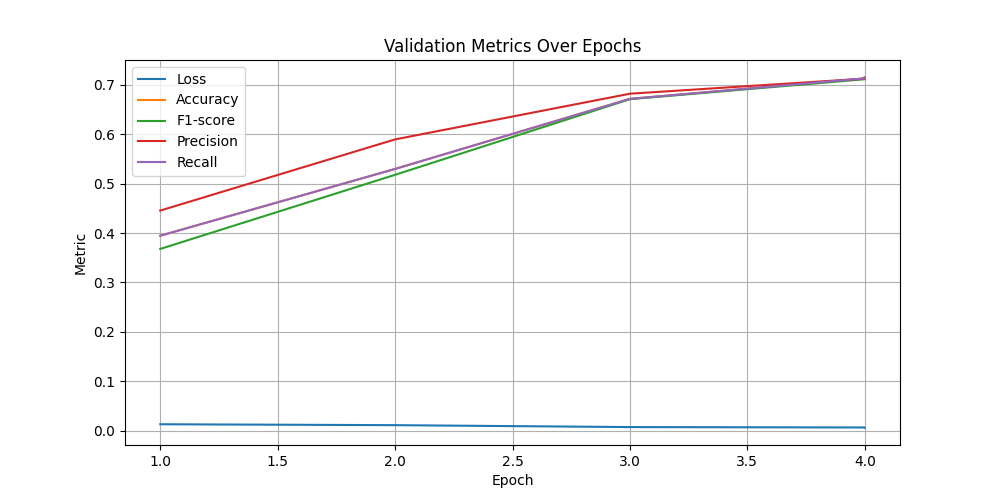
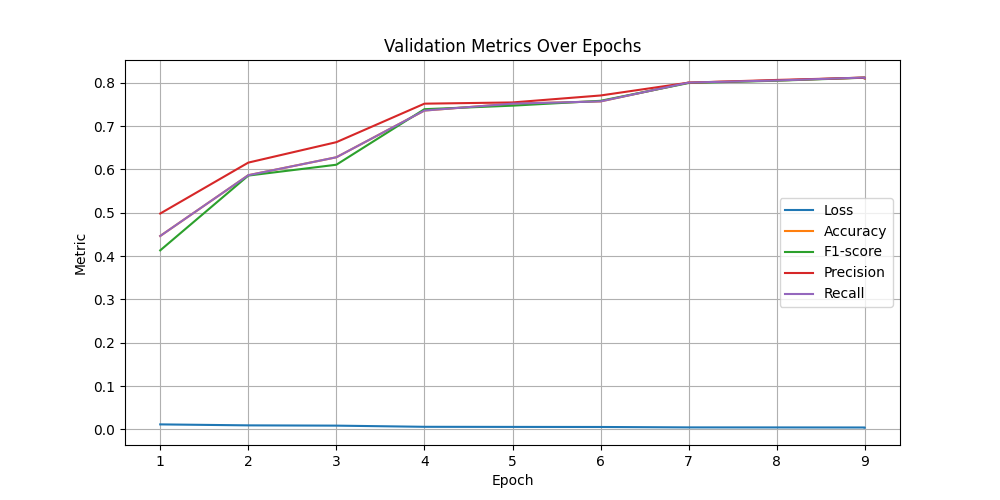
Implemented Wide-ResNet

diff --git a/model/Net.py b/model/Net.py
@@ -86,7 +86,6 @@ class ResNet_cifar(nn.Module):
         out = self.linear(out)
         return out
 
-
 # CIFAR-style ResNet configurations
 def ResNet20(num_classes=10):
     depth = 20
@@ -112,3 +111,51 @@ def ResNet110(num_classes=10):
     depth = 110
     n = (depth - 2) // 6
     return ResNet_cifar(BasicBlock, [n, n, n], num_classes=num_classes)
+
+
+
+class WResNet_cifar(nn.Module):
+    def __init__(self, block, num_blocks, k, num_classes=10):
+        super(WResNet_cifar, self).__init__()
+        self.in_planes = 16 * k
+
+        self.conv1 = nn.Conv2d(3, 16 * k, kernel_size=3, stride=1, padding=1, bias=False)
+        self.bn1 = nn.BatchNorm2d(16 * k)
+        self.layer1 = self._make_layer(block, 16 * k, num_blocks[0], stride=1)
+        self.layer2 = self._make_layer(block, 32 * k, num_blocks[1], stride=2)
+        self.layer3 = self._make_layer(block, 64 * k, num_blocks[2], stride=2)
+        self.linear = nn.Linear(64 * k * block.expansion, num_classes)
+
+    def _make_layer(self, block, planes, num_blocks, stride):
+        strides = [stride] + [1] * (num_blocks - 1)
+        layers = []
+        for stride in strides:
+            layers.append(block(self.in_planes, planes, stride))
+            self.in_planes = planes * block.expansion
+        return nn.Sequential(*layers)
+
+    def forward(self, x):
+        out = F.relu(self.bn1(self.conv1(x)))
+        out = self.layer1(out)
+        out = self.layer2(out)
+        out = self.layer3(out)
+        out = F.avg_pool2d(out, 8)
+        out = out.view(out.size(0), -1)
+        out = self.linear(out)
+        return out
+
+# Wide ResNetconfigurations
+def WRN56_2(num_classes=10):
+    depth = 56
+    n = (depth - 2) // 6
+    return WResNet_cifar(BasicBlock, [n,n,n], 2)
+
+def WRN56_4(num_classes=10):
+    depth = 56
+    n = (depth - 2) // 6
+    return WResNet_cifar(BasicBlock, [n,n,n], 4)
+
+def WRN56_8(num_classes=10):
+    depth = 56
+    n = (depth - 2) // 6
+    return WResNet_cifar(BasicBlock, [n,n,n], 8)

diff --git a/train.py b/train.py
@@ -5,8 +5,7 @@ from torch.utils.data import DataLoader
 from torchvision import transforms
 from torchvision.datasets import CIFAR10
 
-
-from model.ResNet import ResNet20, ResNet32, ResNet44, ResNet56, ResNet110
+from model.Net import ResNet20, ResNet32, ResNet44, ResNet56, ResNet110, WRN56_2, WRN56_4, WRN56_8
 from utility.log import Log
 from utility.initialize import initialize
 from utility.lr import StepLR
@@ -70,7 +69,7 @@ def train(model, optimizer, scheduler, dataset, args, log, use_sam=False):
 if __name__ == "__main__":
     parser = argparse.ArgumentParser()
     parser.add_argument("--batch_size", default=128, type=int)
-    parser.add_argument("--depth", default=20, type=int)
+    parser.add_argument("--depth", default=2, type=int) # 20 default per resnet, 2 default per wresnet
     parser.add_argument("--epochs", default=5, type=int)
     parser.add_argument("--learning_rate", default=0.1, type=float)
     parser.add_argument("--momentum", default=0.9, type=float)
@@ -101,14 +100,23 @@ if __name__ == "__main__":
     test_loader = DataLoader(test_dataset, batch_size=args.batch_size, shuffle=False, num_workers=2)
     dataset = {"train": train_loader, "test": test_loader}
 
-    resnet_versions = {
+    '''resnet_versions = {
         20: ResNet20,
         32: ResNet32,
         44: ResNet44,
         56: ResNet56,
         110: ResNet110,
     }
-    model_fn = resnet_versions.get(args.depth)
+    model_fn = resnet_versions.get(args.depth)'''
+    wresnet_versions = {
+        2: WRN56_2,
+        4:WRN56_4,
+        8:WRN56_8
+    }
+    model_fn = wresnet_versions.get(args.depth)
+
+
+
     if model_fn is None:
         raise ValueError(f"Unsupported depth {args.depth}")
 
